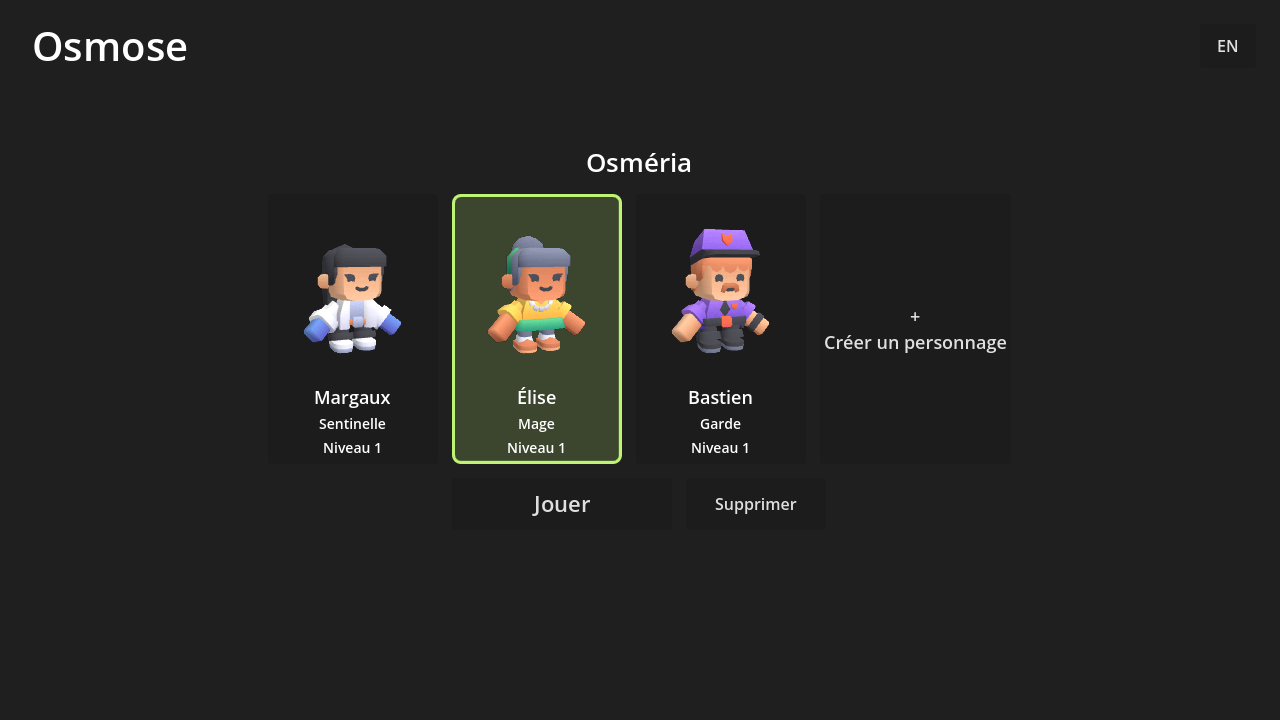
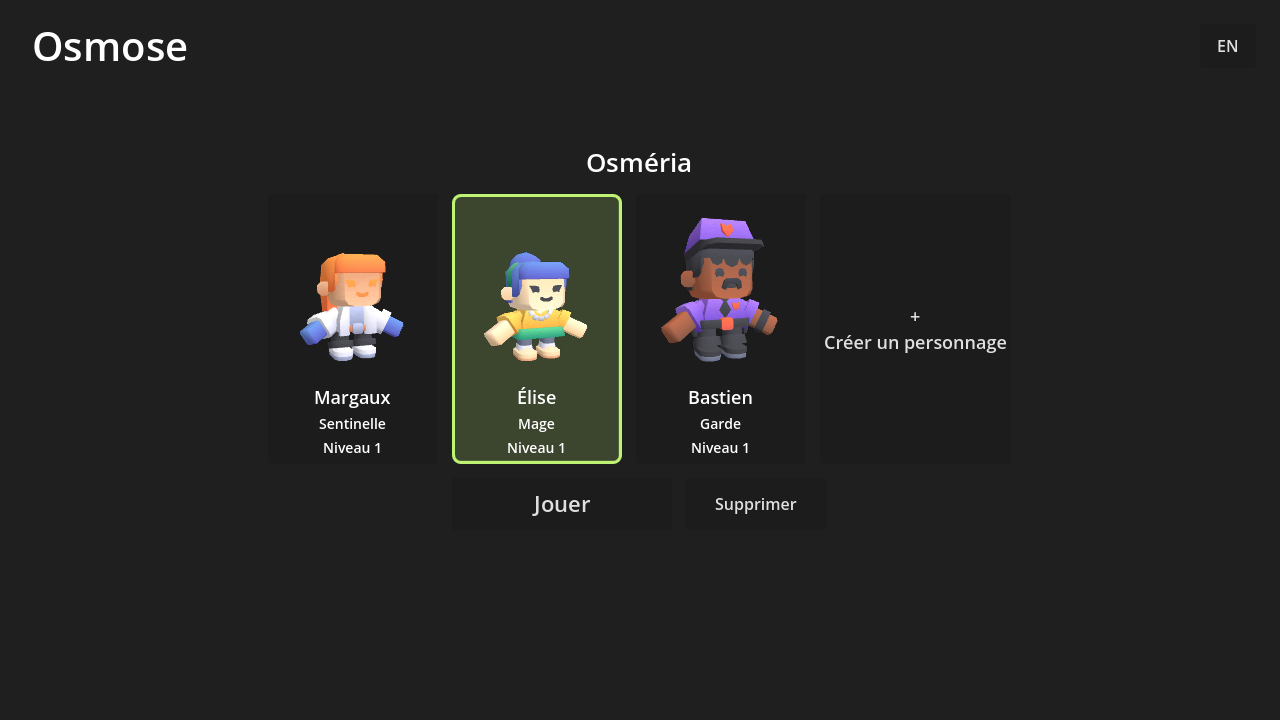
docs(rpg): sprint 53 done, the creation screen on the page, decisions T22 and T23

Changed region(s): [[0.5, 0.3056, 0.625, 0.5194], [0.375, 0.3056, 0.4688, 0.5194], [0.2188, 0.3361, 0.3125, 0.5194]]

diff --git a/projects/rpg/README.md b/projects/rpg/README.md
@@ -4,7 +4,7 @@
 
 Un RPG tactique au tour par tour, dans l'esprit de Dofus et de Wakfu, écrit de zéro : aucun code, aucun nom, aucune image d'Ankama (D54). Six sprints : les règles du combat (sprint 45, ce dossier), le combat isométrique dans Godot 4 (46), le serveur de comptes et de personnages (47), la création de personnage (48), la ville d'accueil et ses PNJ (49), le launcher en Rust et les exécutables (50). Solo d'abord ; le multijoueur viendra plus tard, sur ces mêmes règles.
 
-*A turn-based tactical RPG in the style of Dofus and Wakfu, written from scratch. Sprint 52: as in the games of the genre, the game opens on the server choice (Osméria, straight through while it is alone) then on the characters as cards (3D portrait, name, class, level), each character living on a server; without the launcher, the game only offers to open it or to play offline. Sprint 51: the launcher redone: it updates the game by itself, an account name, a password and "Sign in" (which starts the game), remembering the name and the password (in the system's credential store), sign-up, the server hidden, a banner of the village. Sprint 50: a Rust launcher (Tauri) that signs in, updates the game file by file from a versioned SHA-256 manifest, resumes cut downloads with HTTP ranges and starts the game with the token; unsigned packages for Windows, macOS and Linux built by the CI; a video and an architecture diagram on the project page. Sprint 49: a welcome town built from Kenney's Fantasy Town Kit, walked with a click along the shortest path, three inhabitants with bilingual dialogues and choices described in data, the character's place saved on the server, a gate to a training fight. Sprint 48: character creation with three classes described in data (characteristics and spells, balanced by simulation), twelve looks and seven outfit colours (a palette shader), checked by the server. Sprint 47: an ASP.NET Core server for accounts and characters (JWT, PBKDF2 password hashes, rate limit, EF Core and PostgreSQL, OpenAPI, Docker), and the game's login and character screen, tested end to end against it, with an offline mode. Sprint 46: a Godot 4 C# desktop client (isometric 3D board, Kenney's free animated models, mouse and keyboard play against the AI, a self-test that plays a whole fight through the controls, builds for Windows, macOS and Linux). Sprint 45: the combat rules in a deterministic C# library (isometric grid, action and movement points, A* paths, exact line of sight, spells, initiative, an AI), described by data files, recorded fights that replay roll for roll on Linux, Windows and macOS, and a terminal simulator.*
+*A turn-based tactical RPG in the style of Dofus and Wakfu, written from scratch. Sprint 53: a full-screen character creation (class, look, outfit, hair and skin colours, height and build) on Kenney's models, kept by Charles after a comparison with KayKit and Quaternius; every value checked by the server. Sprint 52: as in the games of the genre, the game opens on the server choice (Osméria, straight through while it is alone) then on the characters as cards (3D portrait, name, class, level), each character living on a server; without the launcher, the game only offers to open it or to play offline. Sprint 51: the launcher redone: it updates the game by itself, an account name, a password and "Sign in" (which starts the game), remembering the name and the password (in the system's credential store), sign-up, the server hidden, a banner of the village. Sprint 50: a Rust launcher (Tauri) that signs in, updates the game file by file from a versioned SHA-256 manifest, resumes cut downloads with HTTP ranges and starts the game with the token; unsigned packages for Windows, macOS and Linux built by the CI; a video and an architecture diagram on the project page. Sprint 49: a welcome town built from Kenney's Fantasy Town Kit, walked with a click along the shortest path, three inhabitants with bilingual dialogues and choices described in data, the character's place saved on the server, a gate to a training fight. Sprint 48: character creation with three classes described in data (characteristics and spells, balanced by simulation), twelve looks and seven outfit colours (a palette shader), checked by the server. Sprint 47: an ASP.NET Core server for accounts and characters (JWT, PBKDF2 password hashes, rate limit, EF Core and PostgreSQL, OpenAPI, Docker), and the game's login and character screen, tested end to end against it, with an offline mode. Sprint 46: a Godot 4 C# desktop client (isometric 3D board, Kenney's free animated models, mouse and keyboard play against the AI, a self-test that plays a whole fight through the controls, builds for Windows, macOS and Linux). Sprint 45: the combat rules in a deterministic C# library (isometric grid, action and movement points, A* paths, exact line of sight, spells, initiative, an AI), described by data files, recorded fights that replay roll for roll on Linux, Windows and macOS, and a terminal simulator.*
 
 ## Les règles
 - **Le plateau** est une grille de cases dessinées en losanges (vue isométrique). On se déplace vers l'une des quatre cases qui partagent un côté ; toutes les distances se comptent en pas, donc une portée dessine un losange autour du lanceur. Trois terrains : le sol, les obstacles (ni passage ni vue) et les trous (pas de passage, mais les sorts passent au-dessus).
@@ -93,6 +93,8 @@ scripts/smoke.sh http://localhost:8002     # contre docker compose : de l'inscri
 La clé qui signe les jetons vient de `Jwt__Key` (base64, 32 octets, variable d'environnement ; `RPG_JWT_KEY` pour docker compose). Sans clé, le serveur en tire une au démarrage, et les jetons ne survivent pas à un redémarrage.
 
 ## Tests
+Sprint 53 : 1 test des règles (l'apparence vérifiée, sans effet sur le combat, gardée par un combat enregistré), 1 du serveur (apparence gardée, chaque champ refusé avec son nom) ; `--lobby-selftest` crée un personnage avec couleur de tenue, de cheveux, teint, taille et carrure par l'écran de création, et vérifie que le serveur garde exactement cette apparence.
+
 Sprint 52 : 2 tests du serveur (un seul serveur sans configuration et les personnages y vivent ; serveurs configurés, personnage créé sur celui choisi, serveur inconnu refusé, liste accessible sans compte), 1 du client (un serveur choisi d'office, plusieurs attendent le choix, personnages filtrés par serveur, création refusée sans serveur), mises à jour de ceux qui comptaient les requêtes et les champs ; `--lobby-selftest` passe maintenant par les cartes : le héros créé doit apparaître sur sa carte (nom, classe, niveau), être choisi, puis « Jouer ».
 
 Sprint 51 : 7 tests Rust de plus (rien n'est mémorisé sans le demander, le nom et le mot de passe reviennent et le mot de passe mémorisé suffit, décocher oublie, un autre compte fait oublier le premier, un mauvais mot de passe ne mémorise rien, un gestionnaire d'identifiants verrouillé n'empêche pas de jouer, l'inscription et ses refus, l'ordre de choix du serveur) ; 2 tests Playwright de la page du launcher, sur les cinq navigateurs, avec un faux Tauri (mise à jour dès l'ouverture, cases pré-cochées, refus traduits, mot de passe vérifié sur la page avant l'inscription, « Se connecter » qui attend la mise à jour puis lance, les deux langues, tout tient dans la fenêtre).

diff --git a/projects/rpg/DECISIONS.md b/projects/rpg/DECISIONS.md
@@ -117,8 +117,12 @@ Le choix du projet et de sa pile (Godot 4 en C#, règles partagées, ASP.NET Cor
 **Pourquoi :** c'est l'enchaînement que Charles a demandé (questionnaire du 9 octobre) ; un seul endroit pour se connecter (le launcher).
 **Limites :** un seul serveur existe vraiment (toutes les données sont dans la même base) ; plusieurs serveurs séparés demanderont des bases ou des processus distincts, et le choix du serveur côté launcher.
 
-## T22. Les personnages de Quaternius (choix de Charles, sprint 53)
-**Choix :** les *Universal Base Characters* (6 corps, 20 coiffures, peau et yeux personnalisables) et les *Modular Character Outfits – Fantasy* (12 tenues en 62 pièces) de Quaternius, sous licence CC0, remplacent les personnages de Kenney pour le joueur et les habitants.
-**Pourquoi :** c'est le pack le plus personnalisable des trois comparés (Kenney, KayKit, Quaternius), au plus près de ce que Charles demande : cheveux, couleur des cheveux, yeux, vêtements et leurs couleurs, puis accessoires et équipement visibles.
-**Alternatives :** KayKit (CC0, cartoon arrondi, pièces et armes détachables, mais sans coiffures interchangeables) ; garder Kenney (12 apparences fixes et une couleur de tenue).
-**Limites :** style plus réaliste que le reste du décor (Kenney) ; environ 13 000 triangles par personnage ; itch.io refuse les téléchargements automatisés, donc les fichiers sont téléchargés à la main puis versionnés dans le dépôt.
+## T22. On garde les personnages de Kenney (choix de Charles, sprint 53)
+**Choix :** après avoir comparé Kenney, KayKit et Quaternius (captures et rendus officiels), Charles a d'abord choisi Quaternius, puis s'est ravisé : on garde les personnages de Kenney, « au pire on changera la direction artistique plus tard ». La personnalisation se fait avec ce qu'ils permettent : couleur de tenue, couleur des cheveux et teint (le shader remplace les cases de la palette propres à chaque modèle), taille et carrure (mise à l'échelle).
+**Alternatives gardées pour plus tard :** Quaternius (CC0 : 6 corps, 20 coiffures, 12 tenues en 62 pièces ; style plus réaliste, environ 13 000 triangles par personnage ; à télécharger à la main sur itch.io) ; KayKit (CC0 : cartoon arrondi, pièces et 31 armes détachables, sans coiffures interchangeables).
+**Limites :** pas de coiffures ni de vêtements interchangeables tant que le pack ne change pas.
+
+## T23. L'apparence complète sur les modèles de Kenney (sprint 53)
+**Choix :** un personnage a une couleur de tenue (0 à 6), une couleur de cheveux (0 à 7), un teint (0 à 4), une taille et une carrure (-2 à 2) ; 0 garde le modèle tel qu'il est dessiné. Le shader de palette remplace la case des cheveux (sur la tête) et celle de la peau (tête et mains) propres à chaque modèle, trouvées dans ses coordonnées de texture : la peau est la case du visage (environ 220 sommets sur chaque modèle), les cheveux le plus gros groupe restant de la tête. Taille et carrure étirent le modèle (7 et 6 % par cran). Les pastilles prennent leur couleur dans la texture même ; celles de la tenue montrent ce que devient la couleur qui couvre la plus grande surface du modèle (calculée sur l'aire des triangles). L'écran de création est plein écran : le modèle qui tourne à gauche, tous les choix à droite.
+**Pourquoi :** Charles a gardé Kenney (T22) ; c'est ce que ses modèles permettent sans dessin ni fichier de plus.
+**Limites :** une seule couleur de cheveux par modèle (pas de mèches) ; sur une tenue à plusieurs couleurs, toutes tournent ensemble ; la peau des mains suit la case de la peau du visage, ce qui recolore aussi toute autre pièce dessinée dans cette case.

diff --git a/projects/rpg/REVIEW.md b/projects/rpg/REVIEW.md
@@ -20,6 +20,7 @@ Claude y ajoute aussi ses constats au fil de l'eau, préfixés « (Claude) » ; 
 
 - [ ] Sprint 51 : le launcher chez toi (paquet de la CI) : connexion, inscription, cases « mémoriser » (le mot de passe revient-il au lancement suivant ?), mise à jour automatique ; et `launcher/core/src/account.rs` (ce qui est mémorisé, où, et ce qui est oublié).
 - [ ] Sprint 52 : l'ouverture du jeu par le launcher (le serveur Osméria passé d'office, les cartes des personnages, « Jouer », la suppression confirmée) ; sans le launcher, le message et « Jouer hors ligne ».
+- [ ] Sprint 53 : l'écran de création (les couleurs de cheveux et de peau sur chaque apparence, la taille et la carrure, la lisibilité) ; les personnages ainsi créés au village et en combat.
 
 ## Constats
 
@@ -66,4 +67,7 @@ Claude y ajoute aussi ses constats au fil de l'eau, préfixés « (Claude) » ; 
 | 2026-10-09 | `godot/Portrait.cs` | (Claude) « Node not inside tree » : la caméra du portrait était orientée par `LookAt` avant d'entrer dans la scène | Orientation calculée (`Transform3D.LookingAt`) |
 | 2026-10-09 | `src/Rpg.Client/Texts.cs` | (Claude) Le bouton du personnage disait « Combattre » alors qu'il mène au village | « Jouer » |
 | 2026-10-09 | `src/Rpg.Api/Data/Migrations` | (Claude) Migration générée avec le serveur « origine » avant que Charles ne choisisse « Osméria » | Migration non commitée retirée à la main et régénérée (`ef migrations remove` voulait une base) |
+| 2026-10-09 | `godot/LobbyView.cs` | (Claude) Vu sur la première capture de l'écran de création : les boutons « Créer » et « Annuler » sortaient de l'écran, l'aperçu était cadré trop serré | Taille et carrure côte à côte, nom et boutons sur une ligne ; caméra de l'aperçu reculée |
+| 2026-10-09 | `godot/Looks.cs` (`MainColumn`) | (Claude) Vu sur la capture : la pastille de tenue choisie (bleue) ne correspondait pas à la tenue (violette) ; la couleur « principale » était celle qui avait le plus de sommets, pas la plus grande surface | Couleur principale pondérée par l'aire des triangles ; pastille et tenue concordent |
+| 2026-10-09 | pack de personnages | (Claude) Kenney, KayKit et Quaternius comparés (scène de comparaison temporaire, rendus officiels) ; Charles a choisi Quaternius puis gardé Kenney | Décision T22 réécrite ; KayKit retiré du projet, outil de comparaison supprimé |
 | | | | |

diff --git a/scrum/sprint-53.md b/scrum/sprint-53.md
@@ -6,8 +6,12 @@
 
 | Story | Points | État |
 |---|---|---|
-| En tant que développeur, je choisis sur pièces un pack libre de personnages à pièces détachables (rpg) : cheveux, yeux, vêtements, accessoires ; licences ; captures comparées avec Kenney ; décision de Charles consignée. | 1 | À faire |
-| En tant que joueur, je crée mon personnage sur un écran à part (rpg) : plein écran, modèle qui tourne, classe présentée avec ses sorts, apparence, couleurs de tenue, de cheveux et de peau, taille et carrure, nom ; validé par le serveur ; xUnit, auto-test et captures. | 2 | À faire |
+| En tant que développeur, je choisis sur pièces un pack libre de personnages à pièces détachables (rpg) : cheveux, yeux, vêtements, accessoires ; licences ; captures comparées avec Kenney ; décision de Charles consignée. | 1 | Fait |
+| En tant que joueur, je crée mon personnage sur un écran à part (rpg) : plein écran, modèle qui tourne, classe présentée avec ses sorts, apparence, couleurs de tenue, de cheveux et de peau, taille et carrure, nom ; validé par le serveur ; xUnit, auto-test et captures. | 2 | Fait |
+
+**Résultat :** trois packs comparés sur pièces (Kenney, KayKit, Quaternius) ; Charles a gardé Kenney, quitte à changer la direction artistique plus tard (T22). L'écran de création est plein écran : classe, apparence par flèches, couleurs de tenue, de cheveux et de peau, taille et carrure, nom, avec un aperçu qui tourne ; l'apparence est gardée et vérifiée par le serveur, et se retrouve sur les cartes, au village et en combat (T23).
+
+**Tests :** 2 tests de plus (règles et serveur) ; l'auto-test contre le serveur crée un personnage par l'écran avec toute son apparence et la retrouve sur le serveur. **Trouvé en route :** des boutons hors de l'écran, une pastille qui ne correspondait pas à la tenue, un aperçu mal cadré, un pack choisi puis abandonné (outil de comparaison retiré).
 
 ## Rétro (Charles)
 - Ce qui a marché :
